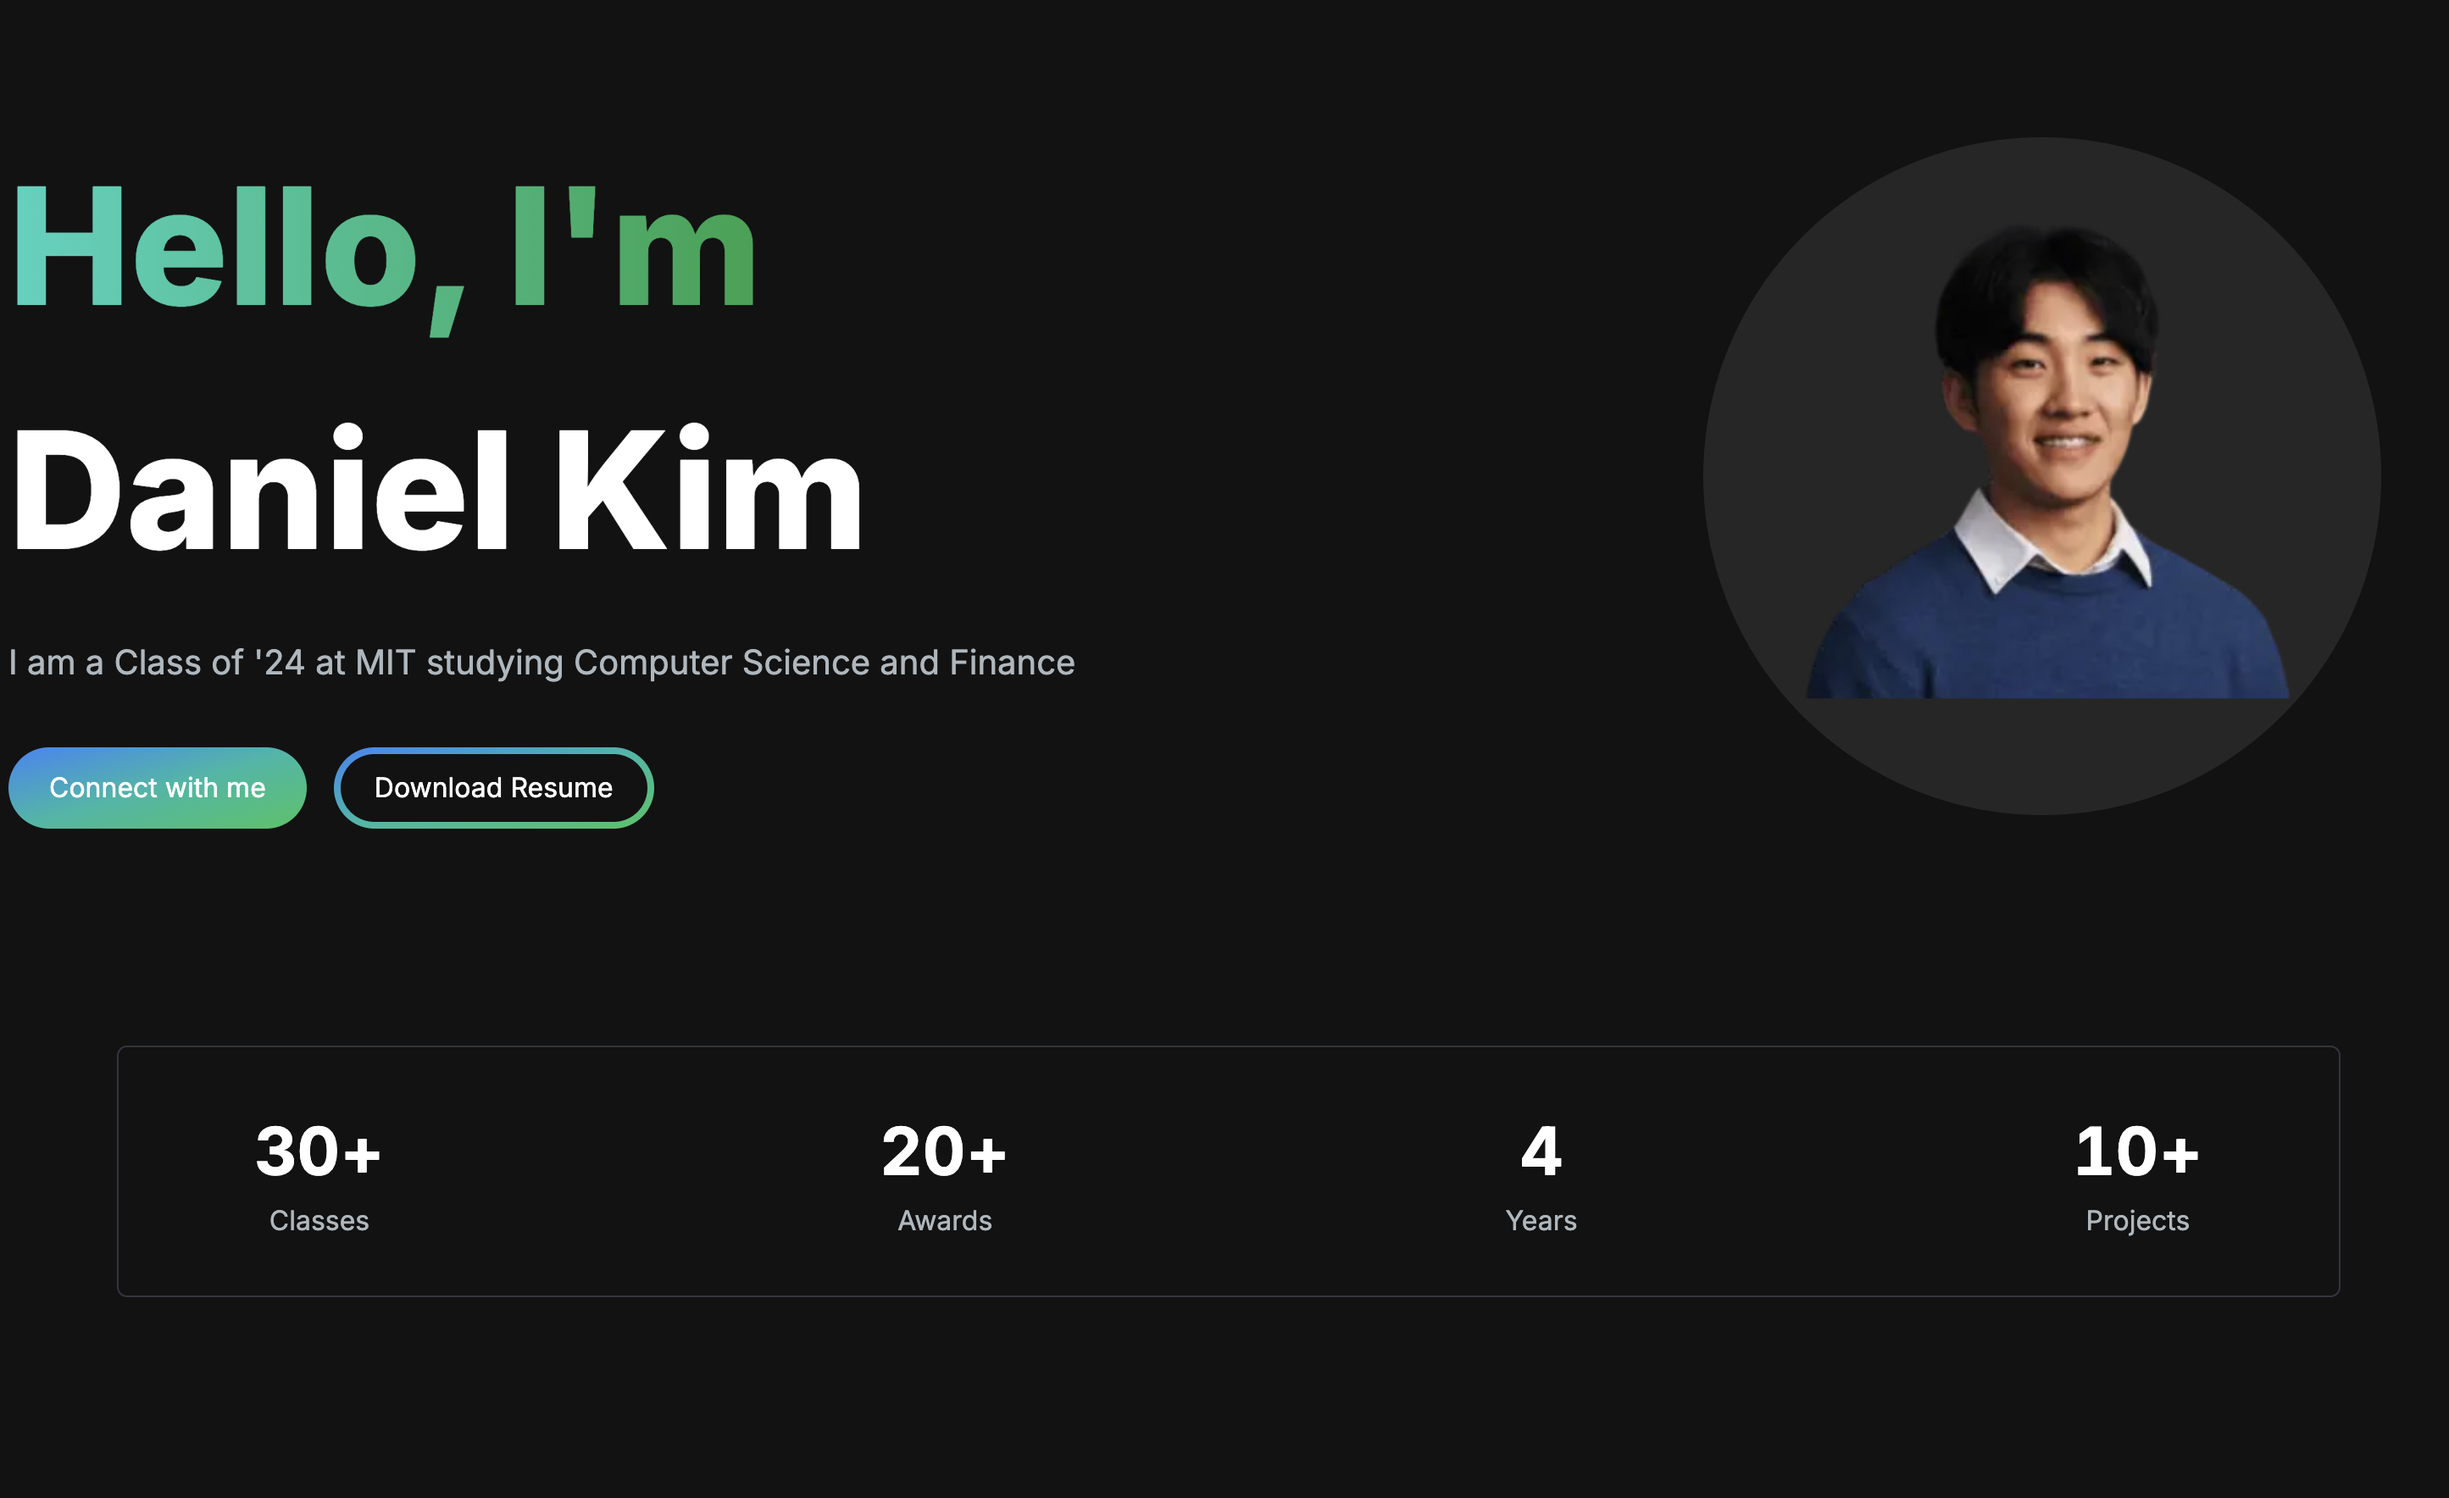
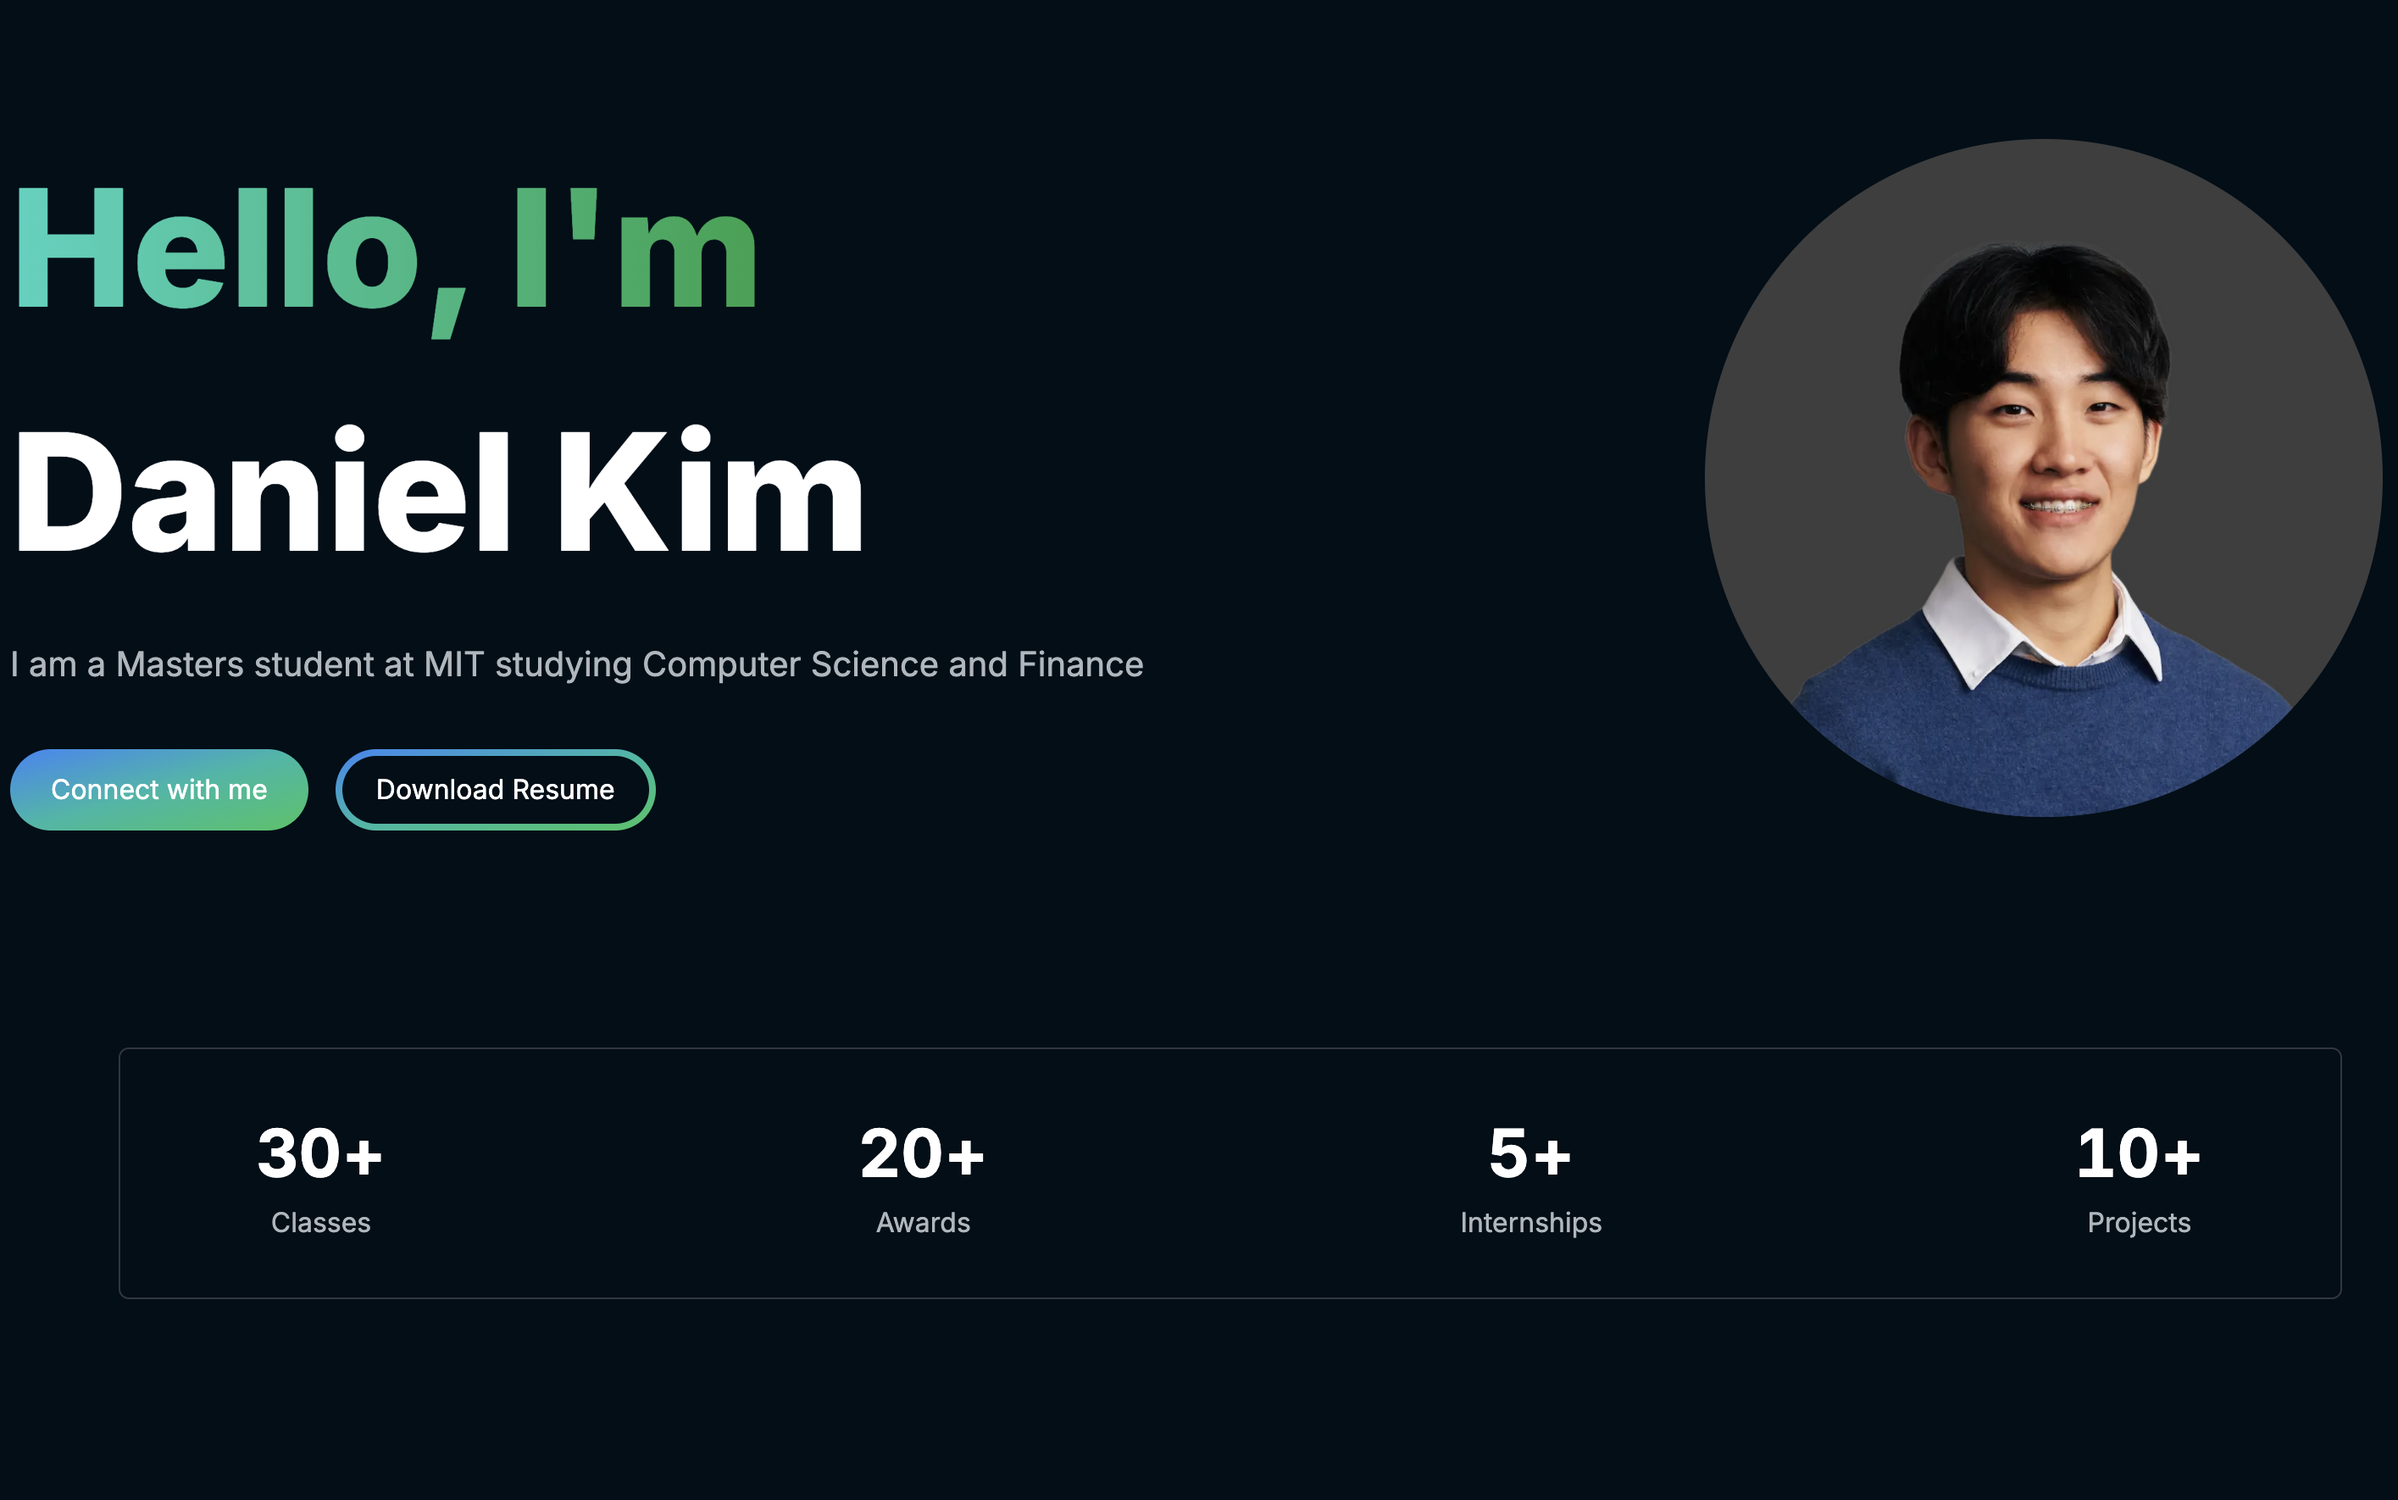
feat: Change hero section and project image

diff --git a/src/app/components/HeroSection.jsx b/src/app/components/HeroSection.jsx
@@ -24,7 +24,7 @@ const HeroSection = () => {
                         sequence={[
                             'Daniel Kim',
                             2000,
-                            'MIT \'24',
+                            'CS&Finance @ MIT',
                             2000,
                             'AI/ML Researher',
                             2000,
@@ -37,7 +37,7 @@ const HeroSection = () => {
                     />
                 </h1>
                 <p className="text-[#ADB7BE] text-base sm:text-lg mb-6 lg:text-xl">
-                    I am a Class of &apos;24 at MIT studying Computer Science and Finance
+                    I am a Masters student at MIT studying Computer Science and Finance
                 </p>
                 <div>
                     <Link 
